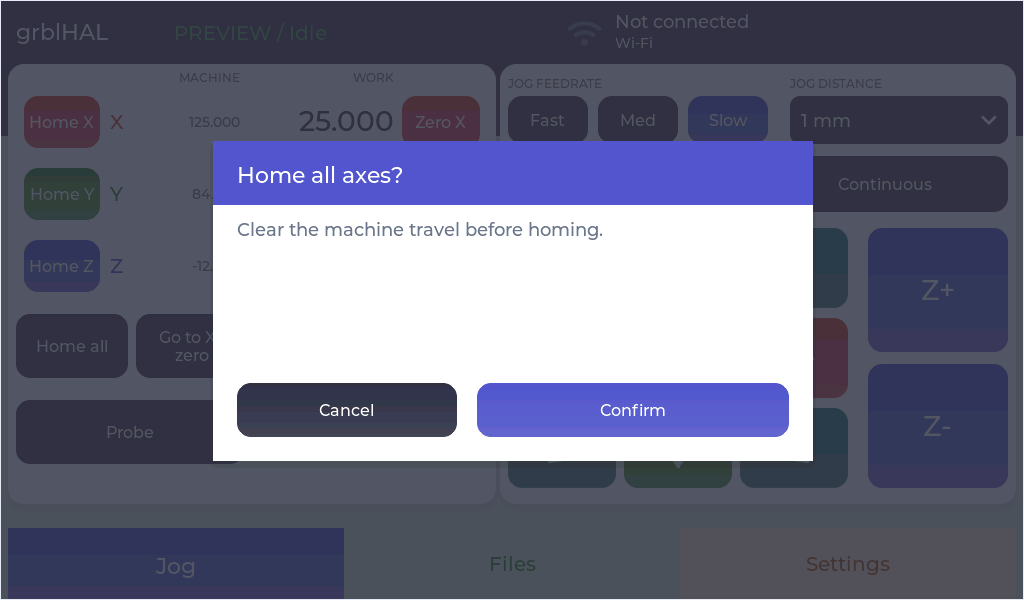
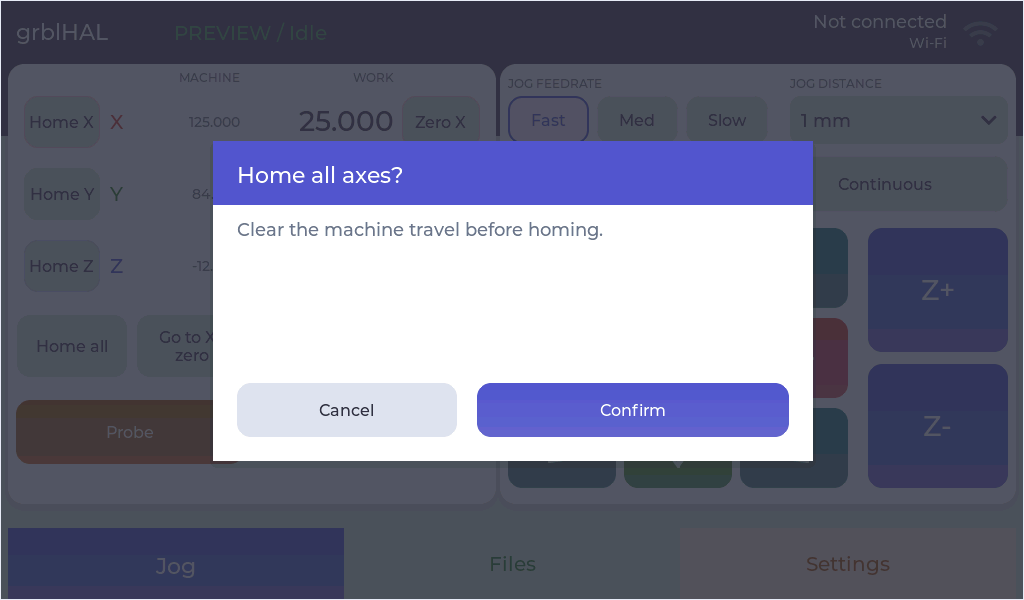
Lighten neutral controls and use native jog selectors

diff --git a/firmware/viewesmart-p4/main/panel_ui.cpp b/firmware/viewesmart-p4/main/panel_ui.cpp
@@ -51,7 +51,8 @@ static lv_obj_t *left_surface, *right_surface, *tabview;
 static lv_obj_t *wifi_header, *wifi_header_name, *wifi_header_ip, *wifi_icon;
 static lv_obj_t *root, *body, *state_label, *axis_work[3], *axis_machine[3],
     *axis_card[3], *nav[3];
-static lv_obj_t *home_btn, *stop_btn, *job_controls, *job_pause;
+static lv_obj_t *home_btn, *stop_btn, *job_controls, *job_pause, *probe_btn;
+static lv_obj_t *speed_choices, *mode_choices, *step_dropdown;
 static lv_obj_t *axis_zero[3], *axis_home[3];
 static lv_obj_t *axis_name[3], *machine_heading, *work_heading;
 static uint8_t jog_speed = 0;
@@ -192,12 +193,14 @@ static lv_obj_t *label(lv_obj_t *p, const char *s, int x, int y, int w, int size
 }
 static lv_obj_t *button(lv_obj_t *p, const char *s, int x, int y, int w, int h, lv_event_cb_t cb,
                         uintptr_t data = 0, uint32_t color = EDGE) {
+    if (color == EDGE)
+        color = BG;
     lv_obj_t *b = lv_button_create(p);
     lv_obj_set_pos(b, x, y);
     lv_obj_set_size(b, w, h);
     lv_obj_set_style_bg_color(b, lv_color_hex(color), 0);
     lv_obj_set_style_bg_grad_color(b, lv_color_lighten(lv_color_hex(color), 24), 0);
-    lv_obj_set_style_bg_grad_dir(b, LV_GRAD_DIR_VER, 0);
+    lv_obj_set_style_bg_grad_dir(b, color == BG ? LV_GRAD_DIR_NONE : LV_GRAD_DIR_VER, 0);
     lv_obj_set_style_radius(b, 14, 0);
     lv_obj_set_style_shadow_width(b, 0, 0);
     lv_obj_set_style_shadow_ofs_y(b, 3, 0);
@@ -242,6 +245,53 @@ static void soften(lv_obj_t *b, uint32_t accent = LINE) {
     lv_obj_set_style_border_width(b, 1, 0);
     lv_obj_set_style_border_color(b, lv_color_mix(lv_color_hex(accent), lv_color_hex(CARD), 72), 0);
     lv_obj_set_style_text_color(lv_obj_get_child(b, 0), lv_color_hex(TEXT), 0);
+}
+static lv_obj_t *choices(lv_obj_t *parent, const char *const *map, int selected, int x, int y, int w, int h,
+                    lv_event_cb_t callback) {
+    lv_obj_t *m = lv_buttonmatrix_create(parent);
+    lv_obj_set_pos(m, x, y);
+    lv_obj_set_size(m, w, h);
+    lv_buttonmatrix_set_map(m, map);
+    lv_buttonmatrix_set_button_ctrl_all(m, LV_BUTTONMATRIX_CTRL_CHECKABLE);
+    lv_buttonmatrix_set_button_ctrl_all(m, LV_BUTTONMATRIX_CTRL_NO_REPEAT);
+    lv_buttonmatrix_set_one_checked(m, true);
+    lv_buttonmatrix_set_button_ctrl(m, selected, LV_BUTTONMATRIX_CTRL_CHECKED);
+    lv_obj_set_style_bg_opa(m, LV_OPA_TRANSP, 0);
+    lv_obj_set_style_border_width(m, 0, 0);
+    lv_obj_set_style_pad_all(m, 0, 0);
+    lv_obj_set_style_pad_column(m, 8, 0);
+    lv_obj_set_style_bg_color(m, lv_color_hex(BG), LV_PART_ITEMS);
+    lv_obj_set_style_bg_opa(m, LV_OPA_COVER, LV_PART_ITEMS);
+    lv_obj_set_style_bg_grad_dir(m, LV_GRAD_DIR_NONE, LV_PART_ITEMS);
+    lv_obj_set_style_shadow_width(m, 0, LV_PART_ITEMS);
+    lv_obj_set_style_radius(m, 14, LV_PART_ITEMS);
+    lv_obj_set_style_text_font(m, font(16), LV_PART_ITEMS);
+    lv_obj_set_style_text_color(m, lv_color_hex(TEXT), LV_PART_ITEMS);
+    lv_obj_set_style_border_width(m, 1, LV_PART_ITEMS);
+    lv_obj_set_style_border_color(m, lv_color_hex(LINE), LV_PART_ITEMS);
+    lv_obj_set_style_bg_color(m, lv_color_hex(0xE8E9FA), LV_PART_ITEMS | LV_STATE_CHECKED);
+    lv_obj_set_style_text_color(m, lv_color_hex(BLUE), LV_PART_ITEMS | LV_STATE_CHECKED);
+    lv_obj_set_style_border_color(m, lv_color_hex(BLUE), LV_PART_ITEMS | LV_STATE_CHECKED);
+    lv_obj_set_style_border_width(m, 2, LV_PART_ITEMS | LV_STATE_CHECKED);
+    const lv_style_selector_t disabled[] = {LV_PART_ITEMS | LV_STATE_DISABLED,
+                                            LV_PART_ITEMS | LV_STATE_DISABLED | LV_STATE_CHECKED};
+    for (auto selector : disabled) {
+        lv_obj_set_style_bg_color(m, lv_color_hex(DISABLED), selector);
+        lv_obj_set_style_text_color(m, lv_color_hex(MUTED), selector);
+        lv_obj_set_style_border_color(m, lv_color_hex(LINE), selector);
+        lv_obj_set_style_border_width(m, 0, selector);
+    }
+    lv_obj_add_event_cb(m, callback, LV_EVENT_VALUE_CHANGED, nullptr);
+    return m;
+}
+static void enable_choices(lv_obj_t *m, bool on) {
+    if (!m)
+        return;
+    enable(m, on);
+    if (on)
+        lv_buttonmatrix_clear_button_ctrl_all(m, LV_BUTTONMATRIX_CTRL_DISABLED);
+    else
+        lv_buttonmatrix_set_button_ctrl_all(m, LV_BUTTONMATRIX_CTRL_DISABLED);
 }
 static bool ready() {
     return state.online && state.status && state.identified && !state.busy && !state.alarm && !state.error &&
@@ -475,12 +525,12 @@ static void jog_event(lv_event_t *e) {
 }
 static void jog_mode(lv_event_t *e) {
     release_jog();
-    continuous = (uintptr_t)lv_event_get_user_data(e);
+    continuous = lv_buttonmatrix_get_selected_button((lv_obj_t *)lv_event_get_target(e)) == 1;
     build_page();
 }
 static void speed_click(lv_event_t *e) {
     release_jog();
-    jog_speed = (uintptr_t)lv_event_get_user_data(e);
+    jog_speed = lv_buttonmatrix_get_selected_button((lv_obj_t *)lv_event_get_target(e));
     save();
     build_page();
 }
@@ -631,8 +681,11 @@ static lv_obj_t *dropdown(lv_obj_t *parent, const char *options, int selected, i
     lv_obj_set_size(d, width, 48);
     lv_dropdown_set_options(d, options);
     lv_dropdown_set_selected(d, selected);
-    lv_obj_set_style_bg_color(d, lv_color_hex(EDGE), 0);
-    lv_obj_set_style_text_color(d, lv_color_hex(WHITE), 0);
+    lv_obj_set_style_bg_color(d, lv_color_hex(BG), 0);
+    lv_obj_set_style_bg_opa(d, LV_OPA_COVER, 0);
+    lv_obj_set_style_bg_grad_dir(d, LV_GRAD_DIR_NONE, 0);
+    lv_obj_set_style_text_color(d, lv_color_hex(TEXT), 0);
+    lv_obj_set_style_text_color(d, lv_color_hex(TEXT), LV_PART_INDICATOR);
     lv_obj_set_style_bg_opa(d, LV_OPA_COVER, LV_STATE_DISABLED);
     lv_obj_set_style_text_color(d, lv_color_hex(MUTED), LV_STATE_DISABLED);
     lv_obj_set_style_text_color(d, lv_color_hex(MUTED), LV_PART_INDICATOR | LV_STATE_DISABLED);
@@ -913,6 +966,7 @@ static void build_page() {
     wifi_row_status = nullptr;
     file_box = file_title = progress = progress_text = time_text = start_btn = refresh_btn = nullptr;
     feed_slider = spindle_slider = feed_text = spindle_text = nullptr;
+    speed_choices = mode_choices = step_dropdown = nullptr;
     gcode_viewer_detach();
     lv_obj_clean(body);
     runtime_snapshot(state);
@@ -929,14 +983,12 @@ static void build_page() {
     if (page == 0) {
         label(body, "JOG FEEDRATE", 0, 0, 270, 12, MUTED);
         label(body, "JOG DISTANCE", 282, 0, 218, 12, MUTED);
-        const char *speeds[] = {"Fast", "Med", "Slow"};
-        for (int i = 0; i < 3; i++)
-            button(body, speeds[i], i * 90, 20, 80, 48, speed_click, i, jog_speed == i ? BLUE : EDGE);
-        button(body, "Incremental", 0, 80, 246, 56, jog_mode, 0, !continuous ? BLUE : EDGE);
-        button(body, "Continuous", 254, 80, 246, 56, jog_mode, 1, continuous ? BLUE : EDGE);
-        enable(dropdown(body, inches ? "0.01 in\n0.1 in\n1 in\n10 in" : "0.1 mm\n1 mm\n10 mm\n100 mm",
-                        step_index, 282, 20, 218, step_changed),
-               !continuous);
+        static const char *const speeds[] = {"Fast", "Med", "Slow", ""};
+        static const char *const modes[] = {"Incremental", "Continuous", ""};
+        speed_choices = choices(body, speeds, jog_speed, 0, 20, 260, 48, speed_click);
+        mode_choices = choices(body, modes, continuous ? 1 : 0, 0, 80, 500, 56, jog_mode);
+        step_dropdown = dropdown(body, inches ? "0.01 in\n0.1 in\n1 in\n10 in" : "0.1 mm\n1 mm\n10 mm\n100 mm",
+                                 step_index, 282, 20, 218, step_changed);
         const char *names[] = {
             LV_SYMBOL_LEFT " " LV_SYMBOL_UP,   "Y+", LV_SYMBOL_UP " " LV_SYMBOL_RIGHT,   "X-", "X+",
             LV_SYMBOL_LEFT " " LV_SYMBOL_DOWN, "Y-", LV_SYMBOL_DOWN " " LV_SYMBOL_RIGHT, "Z+", "Z-"};
@@ -1074,6 +1126,10 @@ static void refresh(lv_timer_t *) {
         }
     }
     bool on = ready();
+    enable(probe_btn, on);
+    enable_choices(speed_choices, on);
+    enable_choices(mode_choices, on);
+    enable(step_dropdown, on && !continuous);
     char s[256];
     snprintf(s, sizeof s, "%s%s", runtime_is_demo() ? "PREVIEW / " : "", state.mode);
     lv_label_set_text(state_label, s);
@@ -1212,6 +1268,7 @@ extern "C" void panel_ui_create() {
     right_surface = surface(root, 500, 64, 516, 440);
     label(root, "grblHAL", 16, 20, 148, 22, WHITE);
     wifi_header = button(root, "", 548, 4, 460, 52, show_wifi);
+    lv_obj_set_style_bg_color(wifi_header, lv_color_hex(EDGE), 0);
     lv_obj_delete(lv_obj_get_child(wifi_header, 0));
     lv_obj_set_style_bg_grad_dir(wifi_header, LV_GRAD_DIR_NONE, 0);
     lv_obj_set_style_shadow_width(wifi_header, 0, 0);
@@ -1293,7 +1350,7 @@ extern "C" void panel_ui_create() {
     jog_tools = box(root, 16, 400, 472, 80, BG);
     lv_obj_set_style_border_width(jog_tools, 0, 0);
     lv_obj_set_style_bg_opa(jog_tools, LV_OPA_TRANSP, 0);
-    button(jog_tools, "Probe", 0, 0, 228, 64, show_probe, 0, 0xA95B12);
+    probe_btn = button(jog_tools, "Probe", 0, 0, 228, 64, show_probe, 0, 0xA95B12);
     wcs_dropdown = dropdown(jog_tools, "G54\nG55\nG56\nG57\nG58\nG59", 0, 244, 8, 228, wcs);
     job_controls = box(root, 16, 330, 228, 80, BG);
     lv_obj_set_style_border_width(job_controls, 0, 0);

diff --git a/AGENTS.md b/AGENTS.md
@@ -152,6 +152,10 @@ completion uses green. Include simulated alarms and errors in workflow checks.
 Axis jog uses X red / Y green / Z blue; XY diagonals use teal. Home and Zero
 use quiet flat backgrounds with subtle axis-coloured outlines; DRO action buttons
 are quiet too. Keep the jog pad and orange Probe action prominent.
+Neutral buttons and dropdowns use light fills and dark text. Jog speed and mode
+use native one-checked button matrices with pale blue selection styling.
+Probe and jog selectors are disabled and pale whenever machine setup is unavailable.
+Set per-item DISABLED controls on button matrices as well as the widget state.
 The Settings section is labelled Probe, without Defaults.
 Jog DRO and jog-pad cards are both 440 px high. There is no small footer status
 label. Notices use dialogs; the header alarm/error status reopens fault dialogs.

diff --git a/README.md b/README.md
@@ -111,6 +111,10 @@ sample data from demonstration mode; Wi-Fi uses the onboard radio.
 
 ![Continuous jog with distance disabled](docs/screenshots/panel-jog-continuous.png)
 
+**Disconnected**
+
+![Disconnected Jog controls](docs/screenshots/panel-jog-disconnected.png)
+
 **Disabled controls during Hold**
 
 ![Readable disabled jog arrows during Hold](docs/screenshots/panel-jog-disabled.png)
